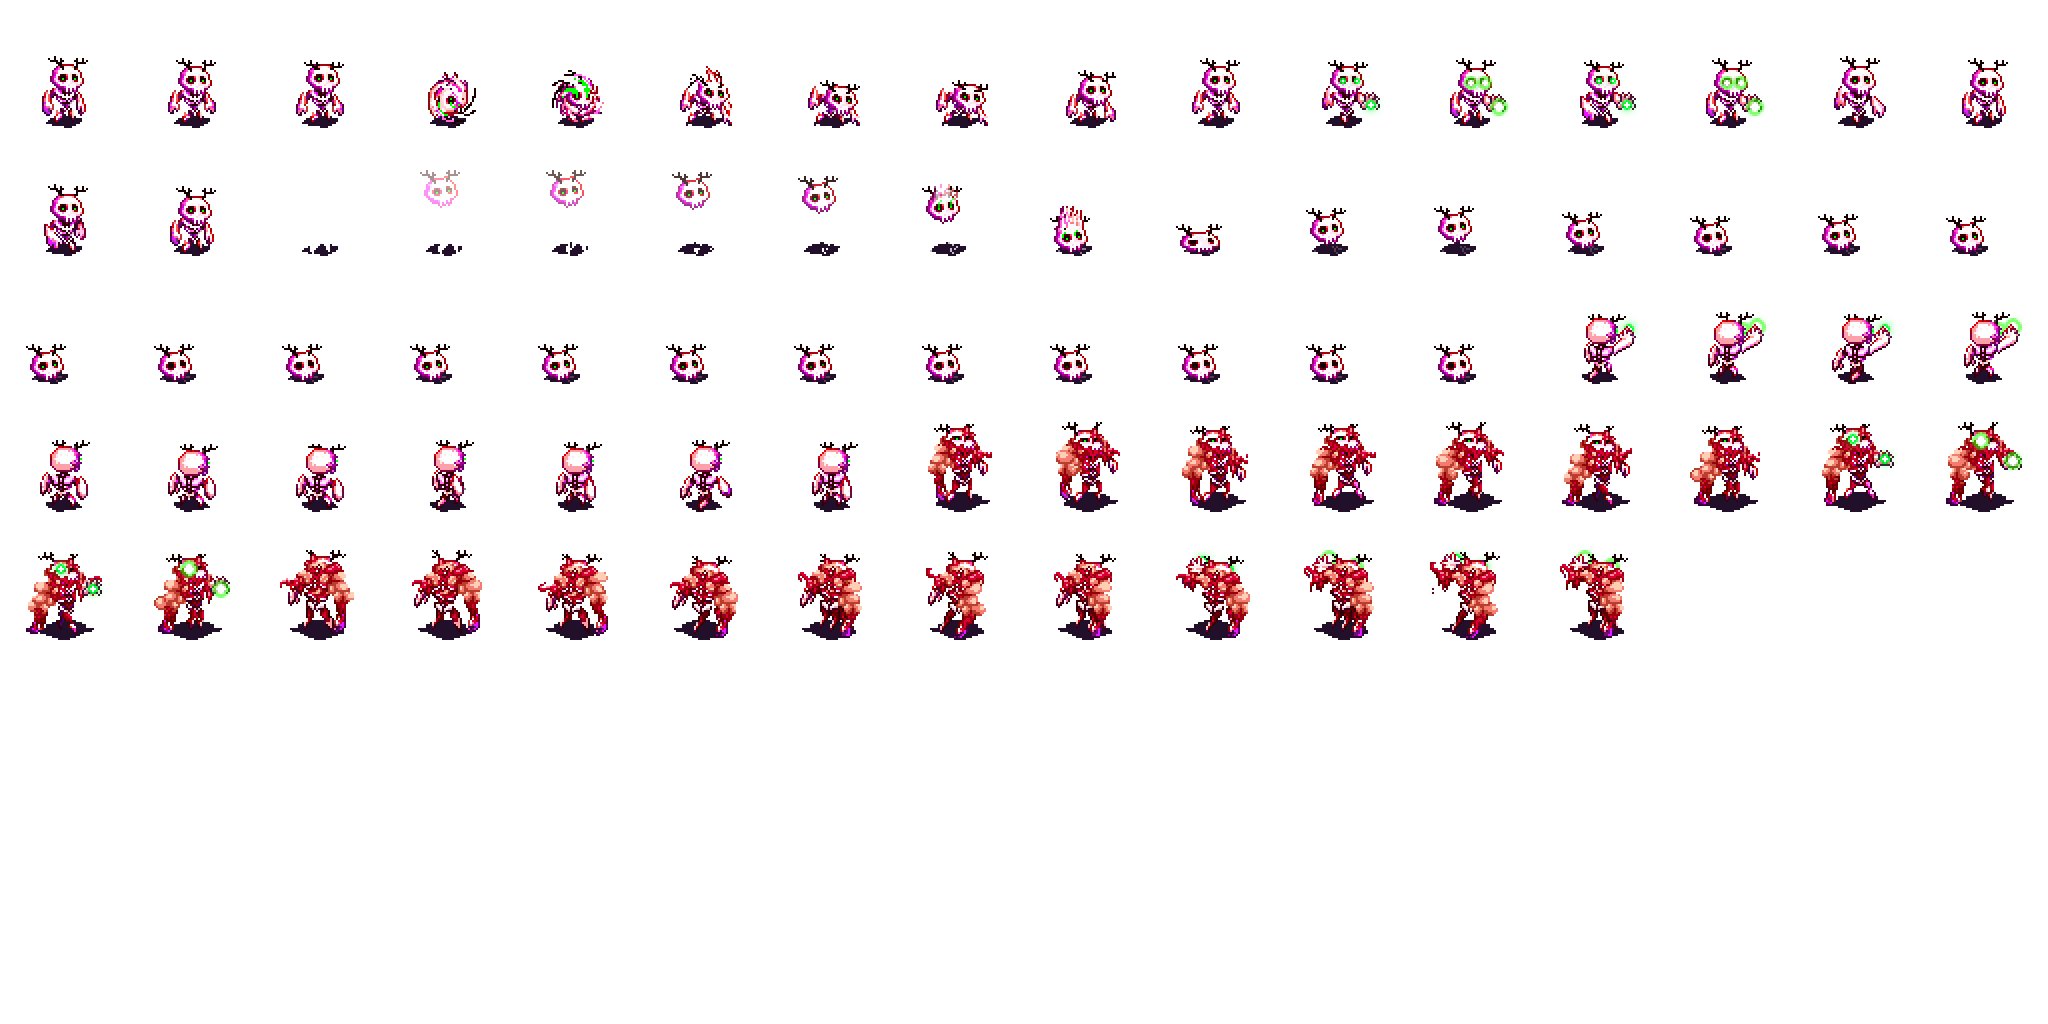
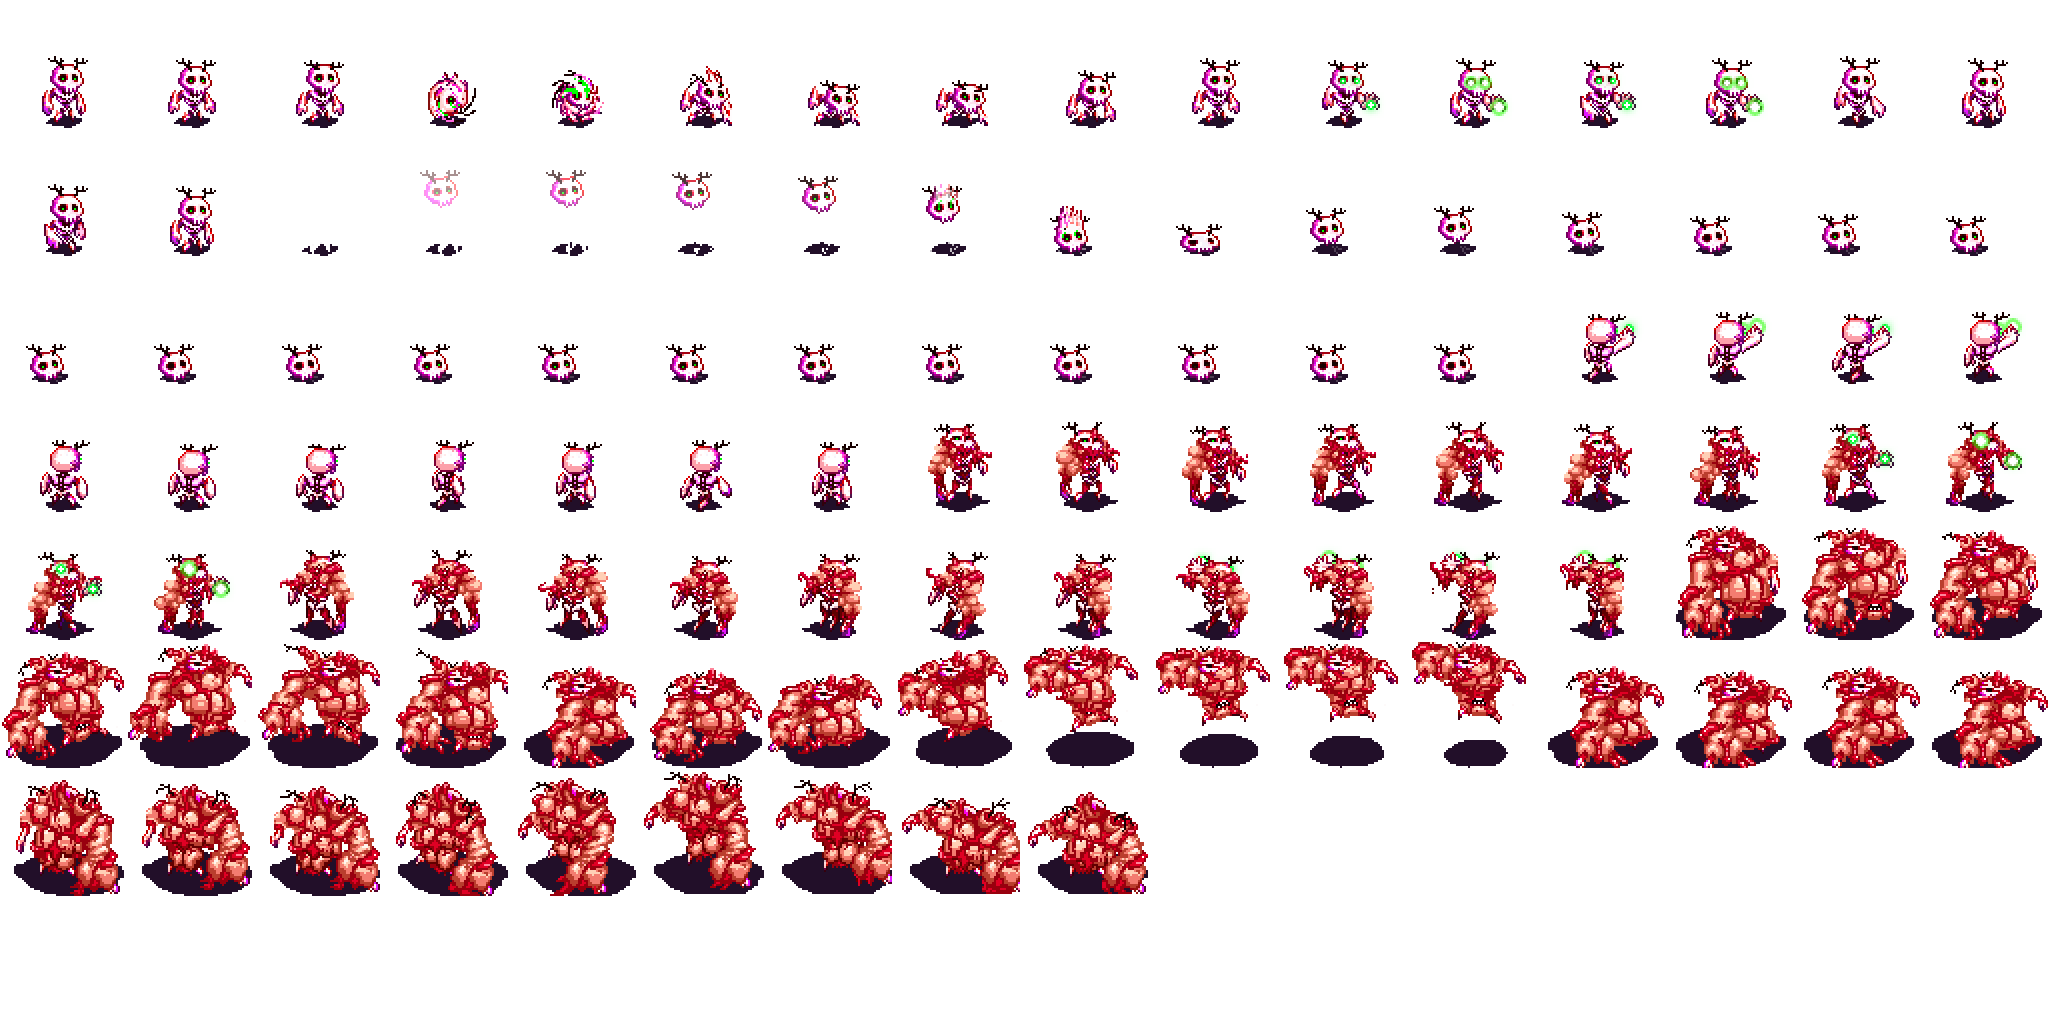
player triple shot and big-man mode power

Changed region(s): [[0.0, 0.625, 1.0, 0.875], [0.8125, 0.5, 1.0, 0.625]]

diff --git a/src/Player.js b/src/Player.js
@@ -24,7 +24,9 @@ var PlayerEntity = me.Entity.extend({
 		me.state.current().player = this;
 
 		this.takingDamage = false;
-		this.hp = 1;
+		this.hp = 7;
+
+		this.aoeTriggered = false;
 
 		this.alwaysUpdate = true;
 		this.body.collisionType = me.collision.types.PLAYER_OBJECT;
@@ -47,7 +49,12 @@ var PlayerEntity = me.Entity.extend({
 			mess_dash_finish: 'mess_dash_finish_up',
 		};
 
-		var dashRecovery = 500;
+		this.modeMap = {
+			big_mess_dash: 'big_mess_dash_up',
+			big_mess_dash_finish: 'big_mess_dash_finish_up',
+		};
+
+		var dashRecovery = 250;
 
 		this.renderable.addAnimation("skel_idle",         [0, 1, 2], 200);
 		this.renderable.addAnimation("skel_idle_up",      [48, 49, 50], 200);
@@ -70,6 +77,19 @@ var PlayerEntity = me.Entity.extend({
 		this.renderable.addAnimation("mess_dash_up",         [69, 69], 100);
 		this.renderable.addAnimation("mess_dash_finish",  [61, 61], dashRecovery / 2);
 		this.renderable.addAnimation("mess_dash_finish_up",  [72, 72], dashRecovery / 2);
+
+
+		this.renderable.addAnimation("big_mess_idle",         [77, 78, 79], 200);
+		this.renderable.addAnimation("big_mess_run",          [80, 81, 82, 83, 84, 85], 100);
+		this.renderable.addAnimation("big_mess_shoot",        [86, 87, 88, 89, 90, 91, 92, 93, 94, 95], 100);
+		this.renderable.addAnimation("big_mess_idle_up",    [96, 97, 98], 200);
+		this.renderable.addAnimation("big_mess_run_up",     [99,100,101,102,103,104], 200);
+		this.renderable.addAnimation("big_mess_shoot_up",   [86, 87, 88, 89, 90, 91, 92, 93, 94, 95], 100);
+		// Just stealing the skelly dash animation for the short term to resolve bug.
+		this.renderable.addAnimation("big_mess_dash",         [80, 81, 82], 100);
+		this.renderable.addAnimation("big_mess_dash_up",         [99,100,101], 100);
+		this.renderable.addAnimation("big_mess_dash_finish",  [84, 85], dashRecovery / 2);
+		this.renderable.addAnimation("big_mess_dash_finish_up",  [102,103], dashRecovery / 2);
 
 		this.changeAnimation("idle");
 
@@ -98,11 +118,11 @@ var PlayerEntity = me.Entity.extend({
 			return 'skel';
 		}
 		// TODO FIX THIS MAGIC NUMBER TO BE A BETTER ONE
-		else if (this.hp < 8) {
+		else if (this.hp < 4) {
 			return 'mess';
 		}
 		else {
-			return 'behemoth';
+			return 'big_mess';
 		}
 	},
 
@@ -190,6 +210,8 @@ var PlayerEntity = me.Entity.extend({
 			return;
 		}
 
+		var initialX = this.fireDirection.x;
+		var initialY = this.fireDirection.y;
 		var dir = this.fireDirection; //this.getControlDirection();
 
 		if( dir.y != 0 || dir.x != 0) {
@@ -198,6 +220,54 @@ var PlayerEntity = me.Entity.extend({
 				this.changeAnimation("idle");
 				this.shooting = false;
 			})
+
+			if( this.getMode() == "skel"){
+
+				var bullet = me.pool.pull(
+					'boneProjectile',
+					this.pos.x,
+					this.pos.y,
+					{
+						dir: dir.normalize(),
+					}
+				);
+				me.game.world.addChild(bullet, bullet.pos.z);
+
+			}else{
+				var angle = Math.PI*0.15;
+				dir.rotate(angle*-1);
+				for(var i=0; i<3; i++){
+					//tri shot.
+					var bullet = me.pool.pull(
+						'playerBloodProjectile',
+						this.pos.x,
+						this.pos.y,
+						{
+							dir: dir.normalize(),
+						}
+					);
+					me.game.world.addChild(bullet, bullet.pos.z);
+					dir.rotate(angle);
+				}
+			}
+
+		}
+
+		this.fireDirection.x = initialX;
+		this.fireDirection.y = initialY;
+	},
+
+
+	fireAoe: function() {
+		me.game.viewport.shake(3,500);
+
+		var dir = new me.Vector2d(0,0);
+		var num = 10;
+
+		for(var i =0; i<num; i++){
+			dir.x = Math.cos( Math.PI*2*(i/num) );
+			dir.y = Math.sin( Math.PI*2*(i/num) );
+
 			var bullet = me.pool.pull(
 				'boneProjectile',
 				this.pos.x,
@@ -224,9 +294,26 @@ var PlayerEntity = me.Entity.extend({
 		me.event.unsubscribe(this.dashSub);
 	},
 
+
 	update : function (dt) {
 		this.cameraTargetPos.x = this.pos.x;
 		this.cameraTargetPos.y = this.pos.y + this.cameraTargetOffsetY;
+
+		var mode = this.getMode();
+		if(mode == "big_mess"){
+			if(this.renderable.isCurrentAnimation(this.getAnimationName("shoot"))){
+				var frame = this.renderable.getCurrentAnimationFrame();
+				if(frame == 6 && !this.aoeTriggered){
+					this.aoeTriggered = true;
+					this.fireAoe();
+				}
+
+				if( frame >= 8){
+					this.aoeTriggered = false;
+				}
+			}
+		}
+
 
 		if(
 			!this.dashing

diff --git a/src/BoneProjectile.js b/src/BoneProjectile.js
@@ -18,3 +18,25 @@ var BoneProjectile = Bullet.extend({
 		this.renderable.setCurrentAnimation("stand");
 	},
 });
+
+var PlayerBloodProjectile = Bullet.extend({
+	init : function (x, y, settings) {
+		settings = settings || {};
+
+		settings.image = "player_blood_bullet";
+		settings.width = 64;
+		settings.height = 64;
+		settings.frameheight = 64;
+		settings.framewidth = 64;
+		settings.speed = 10;
+		settings.mask = me.collision.types.ENEMY_OBJECT; // Friendly bullet!
+
+
+
+		this._super(Bullet, 'init', [x, y, settings]);
+
+		this.renderable.addAnimation("stand",  [0, 1, 2, 3, 4], 100);
+		this.renderable.setCurrentAnimation("stand");
+	},
+});
+

diff --git a/src/LD35.js b/src/LD35.js
@@ -58,6 +58,7 @@ LD35.prototype.loaded = function() {
 	me.pool.register("meatGlob", MeatGlob, true);
 	me.pool.register("enemySpawn", EnemySpawnPoint, true);
 	me.pool.register("boneProjectile", BoneProjectile, true);
+	me.pool.register("playerBloodProjectile", PlayerBloodProjectile, true);
 	me.pool.register("bulletBomber", BulletBomber, true);
 	me.pool.register("bulletShooter", BulletShooter, true);
 	me.pool.register("bulletBoss", BulletBoss, true);

diff --git a/src/BulletShooter.js b/src/BulletShooter.js
@@ -14,7 +14,7 @@ var BulletShooter = Bullet.extend({
 
 		this._super(Bullet, 'init', [x, y, settings]);
 
-		this.renderable.addAnimation("idle",  [0, 1, 2, 4], 200);
+		this.renderable.addAnimation("idle",  [0, 1, 2, 4], 100);
 		this.renderable.setCurrentAnimation("idle");
 	},
 });

diff --git a/src/GameResources.js b/src/GameResources.js
@@ -84,6 +84,9 @@ var GameResources = (function() {
 		_Image("bloody_box"),
 		_Image("totem"),
 		_Image('rock'),
+
+        _Image('player_blood_bullet'),
+
 	];
 
 	return GameResources;
